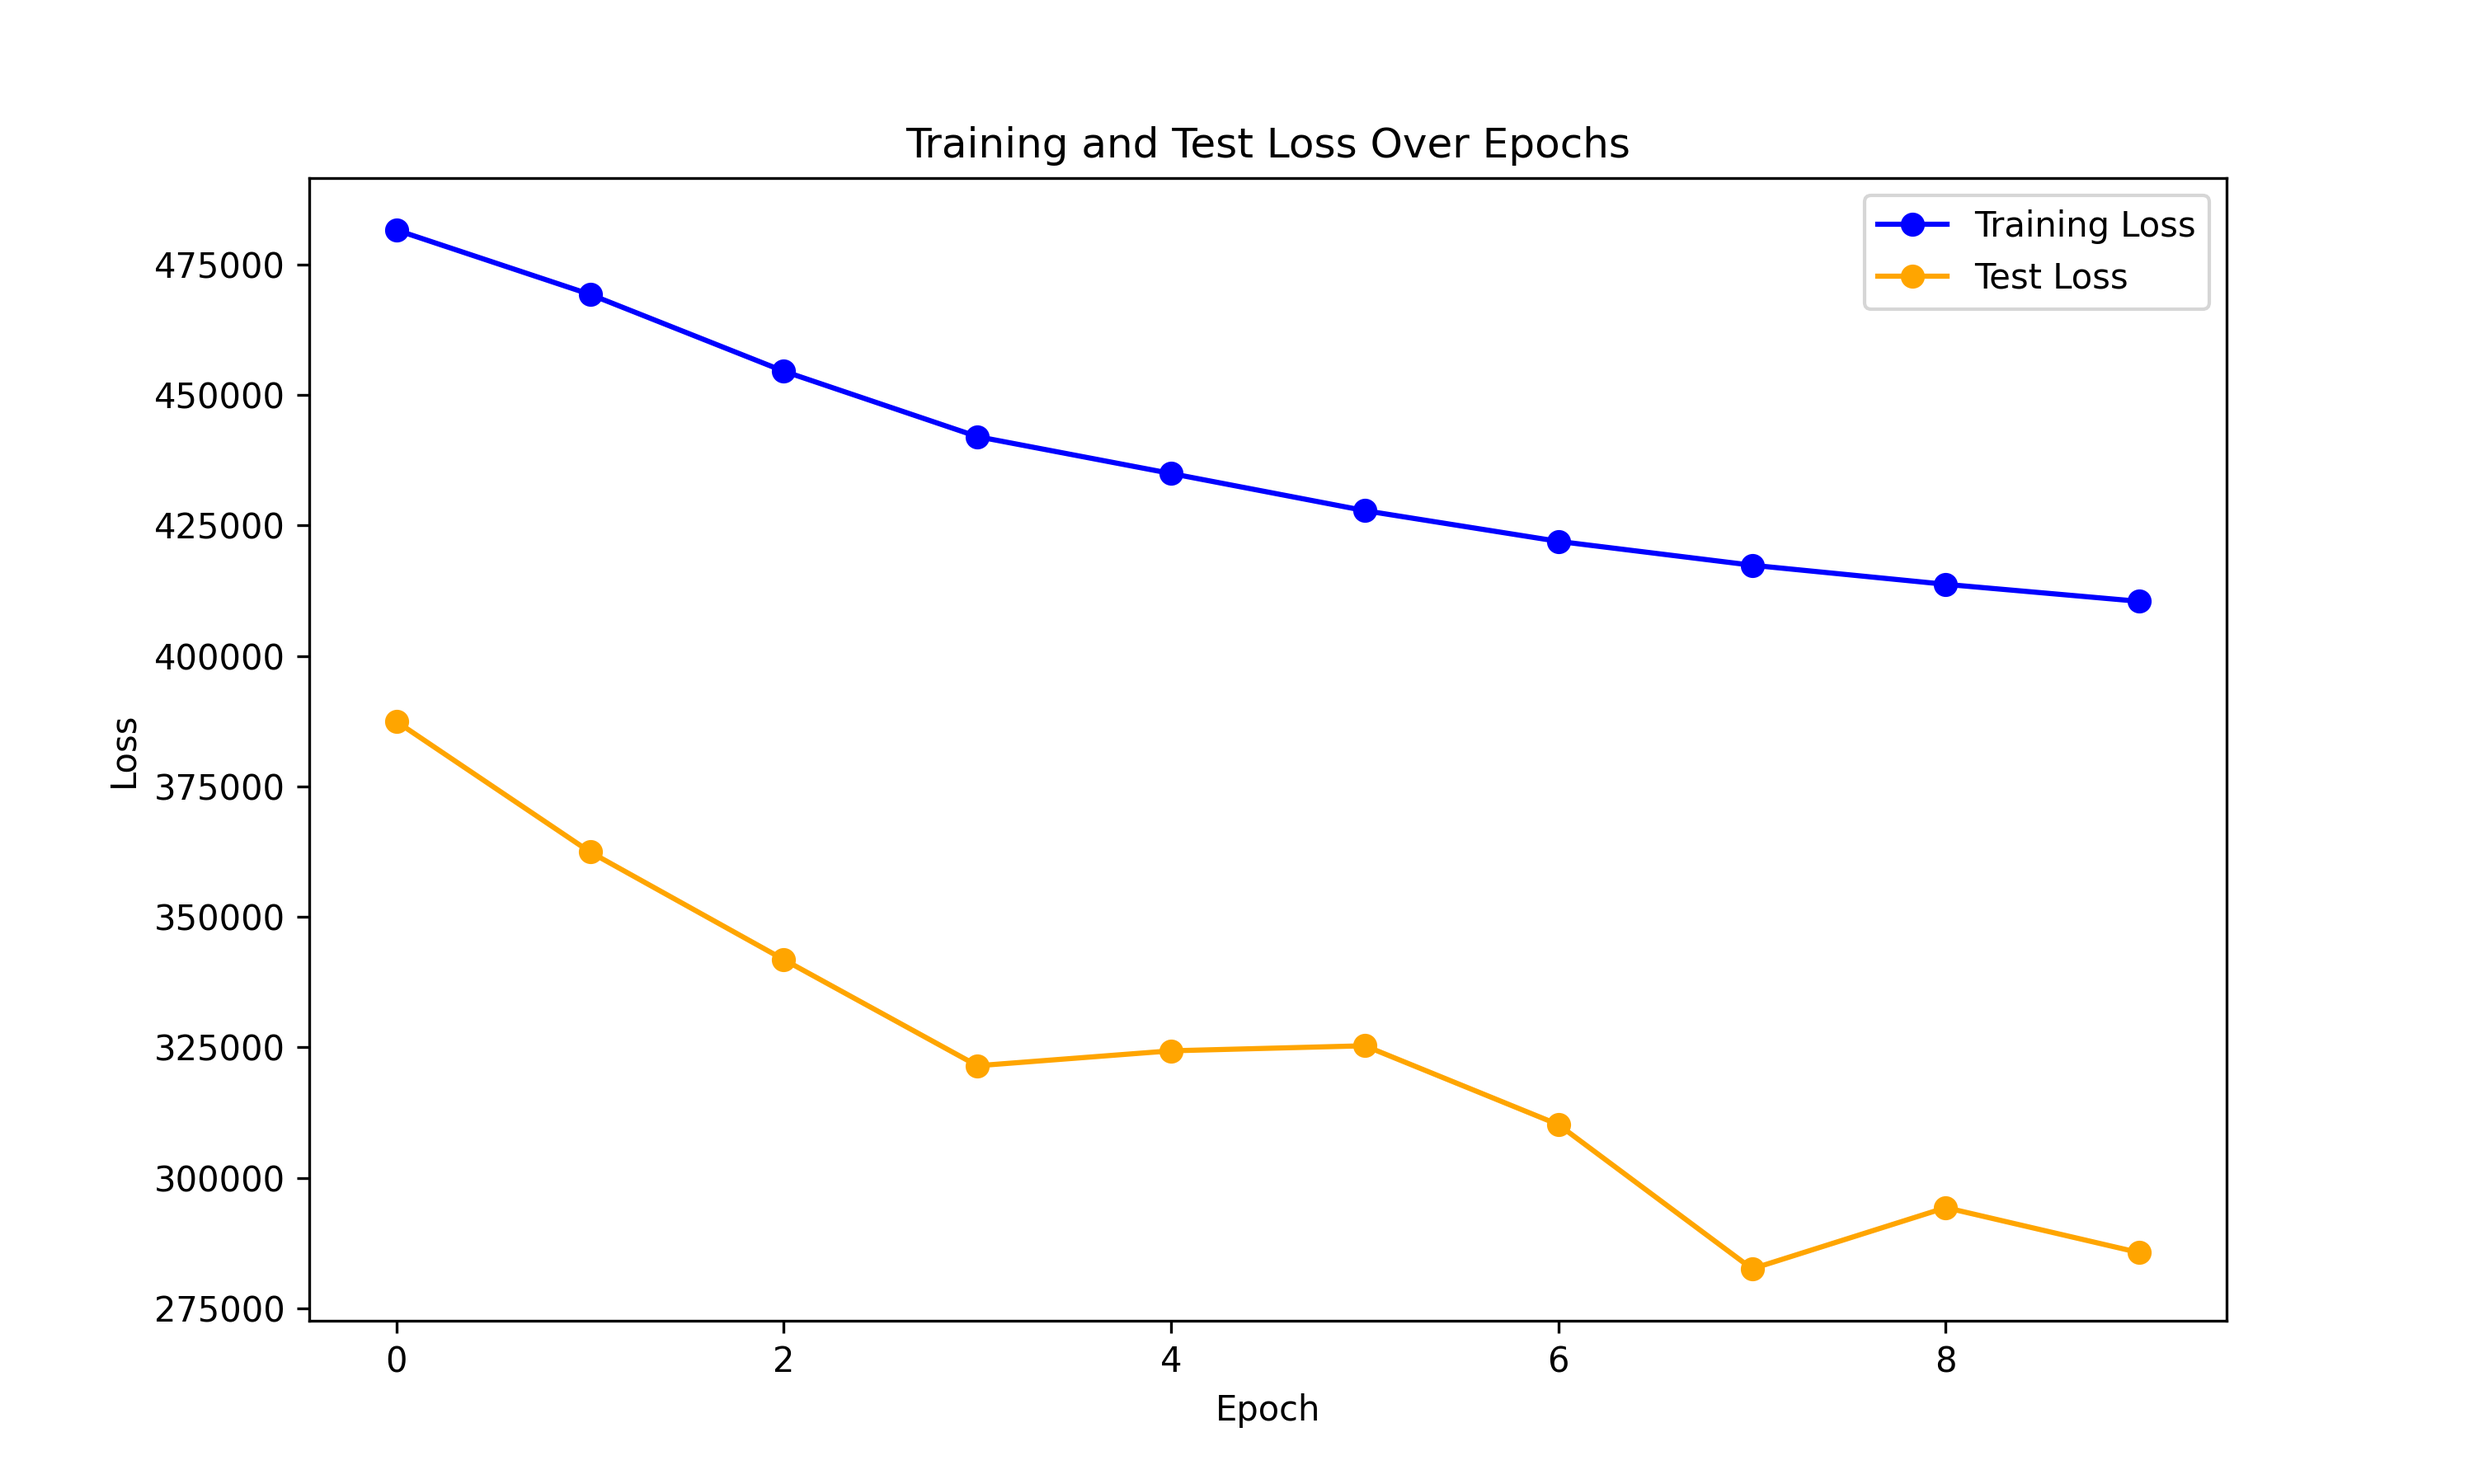
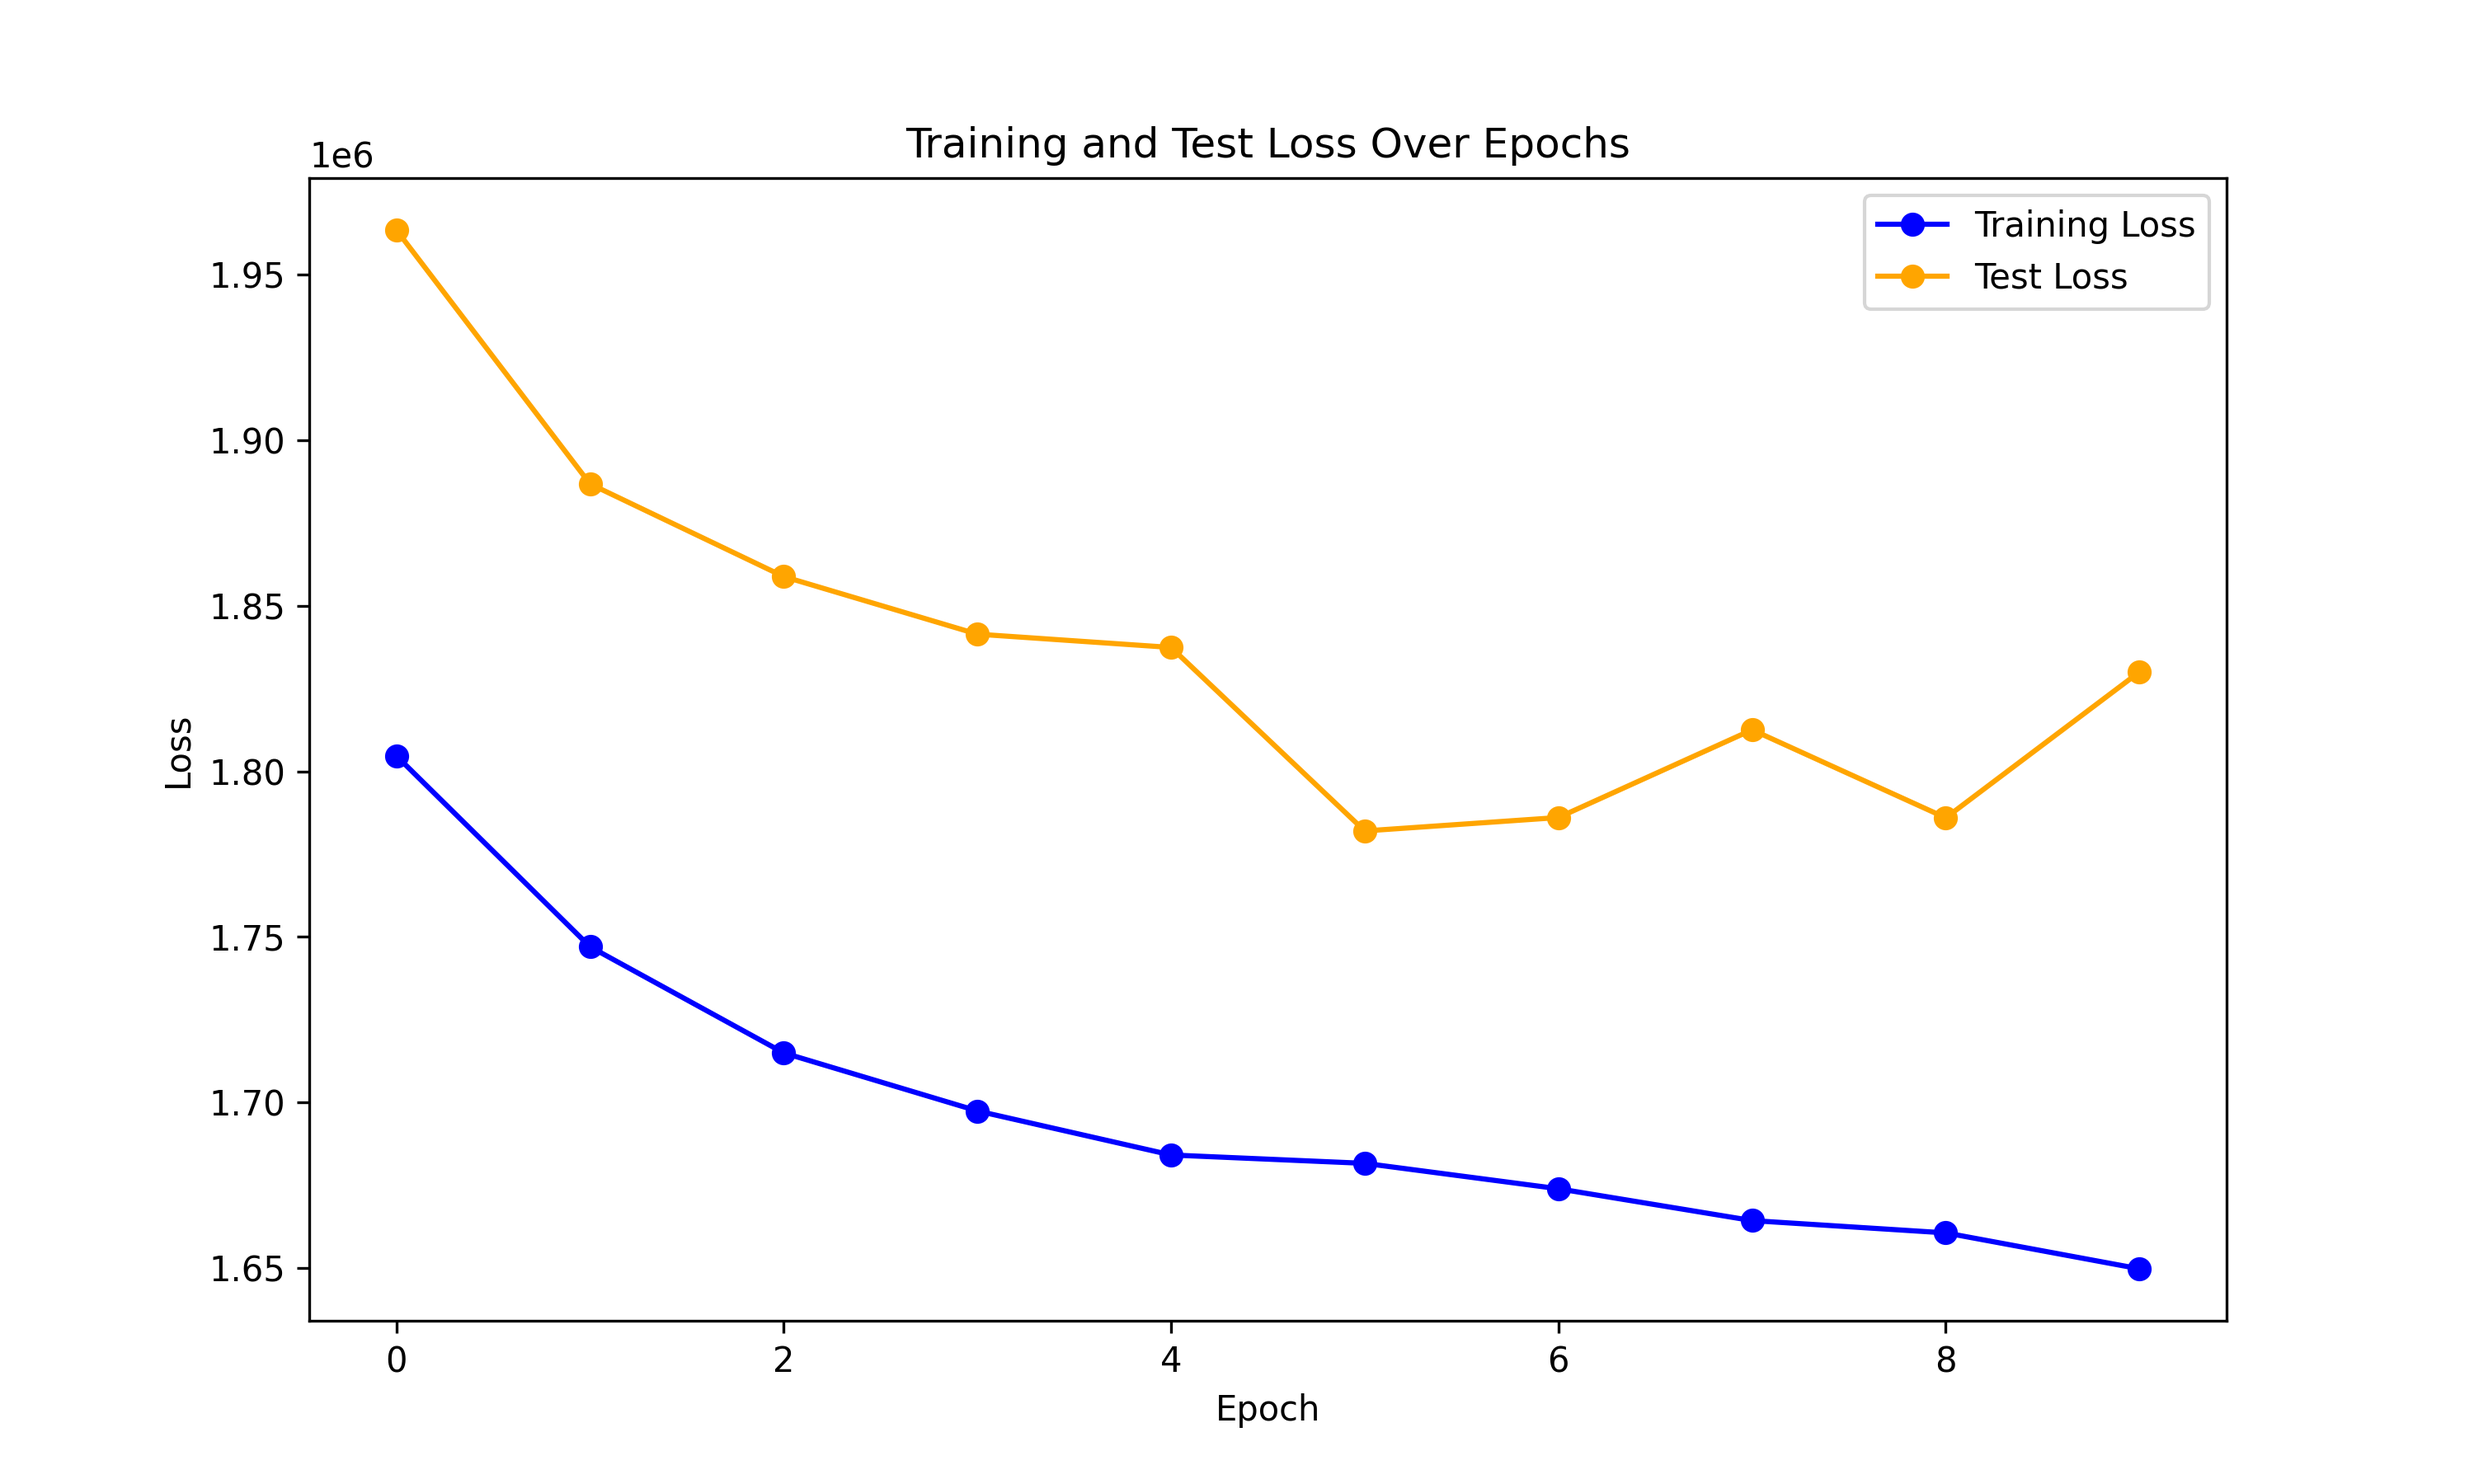
xd

diff --git a/src/models/large_cnn.py b/src/models/large_cnn.py
@@ -1,0 +1,74 @@
+import torch
+import torch.nn as nn
+
+class EfficientResidualBlock(nn.Module):
+    def __init__(self, channels):
+        super(EfficientResidualBlock, self).__init__()
+        # Using groups in conv layers to reduce parameters
+        self.conv1 = nn.Conv2d(channels, channels, kernel_size=3, padding=1, groups=4)
+        self.bn1 = nn.BatchNorm2d(channels)
+        self.relu = nn.ReLU(inplace=True)  # inplace operation to save memory
+        self.conv2 = nn.Conv2d(channels, channels, kernel_size=3, padding=1, groups=4)
+        self.bn2 = nn.BatchNorm2d(channels)
+        
+    def forward(self, x):
+        residual = x
+        out = self.conv1(x)
+        out = self.bn1(out)
+        out = self.relu(out)
+        out = self.conv2(out)
+        out = self.bn2(out)
+        out += residual
+        out = self.relu(out)
+        return out
+
+class Model(nn.Module):
+    def __init__(self):
+        super(Model, self).__init__()
+        
+        # Initial feature extraction with fewer channels
+        self.conv1 = nn.Conv2d(263, 32, kernel_size=3, padding=1, groups=1)
+        self.bn1 = nn.BatchNorm2d(32)
+        self.relu = nn.ReLU(inplace=True)
+        
+        # Moderate size processing blocks
+        self.layer1 = self._make_layer(32, 48)
+        self.layer2 = self._make_layer(48, 64)
+        self.layer3 = self._make_layer(64, 48)
+        self.layer4 = self._make_layer(48, 32)
+        
+        # Efficient final layers
+        self.final_conv1 = nn.Conv2d(32, 16, kernel_size=1)
+        self.final_bn1 = nn.BatchNorm2d(16)
+        self.final_conv2 = nn.Conv2d(16, 1, kernel_size=1)
+        
+    def _make_layer(self, in_channels, out_channels):
+        layers = []
+        layers.append(nn.Conv2d(in_channels, out_channels, kernel_size=3, padding=1))
+        layers.append(nn.BatchNorm2d(out_channels))
+        layers.append(nn.ReLU(inplace=True))
+        layers.append(EfficientResidualBlock(out_channels))
+        return nn.Sequential(*layers)
+    
+    def forward(self, x):
+        # Initial feature extraction
+        x = self.conv1(x)
+        x = self.bn1(x)
+        x = self.relu(x)
+        
+        # Feature processing
+        x = self.layer1(x)
+        x = self.layer2(x)
+        x = self.layer3(x)
+        x = self.layer4(x)
+        
+        # Final prediction
+        x = self.final_conv1(x)
+        x = self.final_bn1(x)
+        x = self.relu(x)
+        x = self.final_conv2(x)
+        
+        return x
+
+    def get_num_parameters(self):
+        return sum(p.numel() for p in self.parameters())

diff --git a/src/train.py b/src/train.py
@@ -4,7 +4,6 @@ from models.test_cnn import Model
 import torch
 import torch.nn as nn
 import torch.optim as optim
-import torch.nn.functional as F
 from tqdm import tqdm
 import matplotlib.pyplot as plt
 
@@ -12,7 +11,7 @@ model = Model()
 criterion = nn.MSELoss()  # Adjust this if using a different loss
 optimizer = optim.Adam(model.parameters(), lr=0.001)
 
-train_loader, test_loader = dt.get_dataloaders('/media/data/iter2/train', '/media/data/iter2/target', 8)
+train_loader, test_loader = dt.get_dataloaders('/media/data/iter2/train', '/media/data/iter2/target', 2)
 
 # Training and evaluation functions
 def train_one_epoch(model, loader, criterion, optimizer, device):
